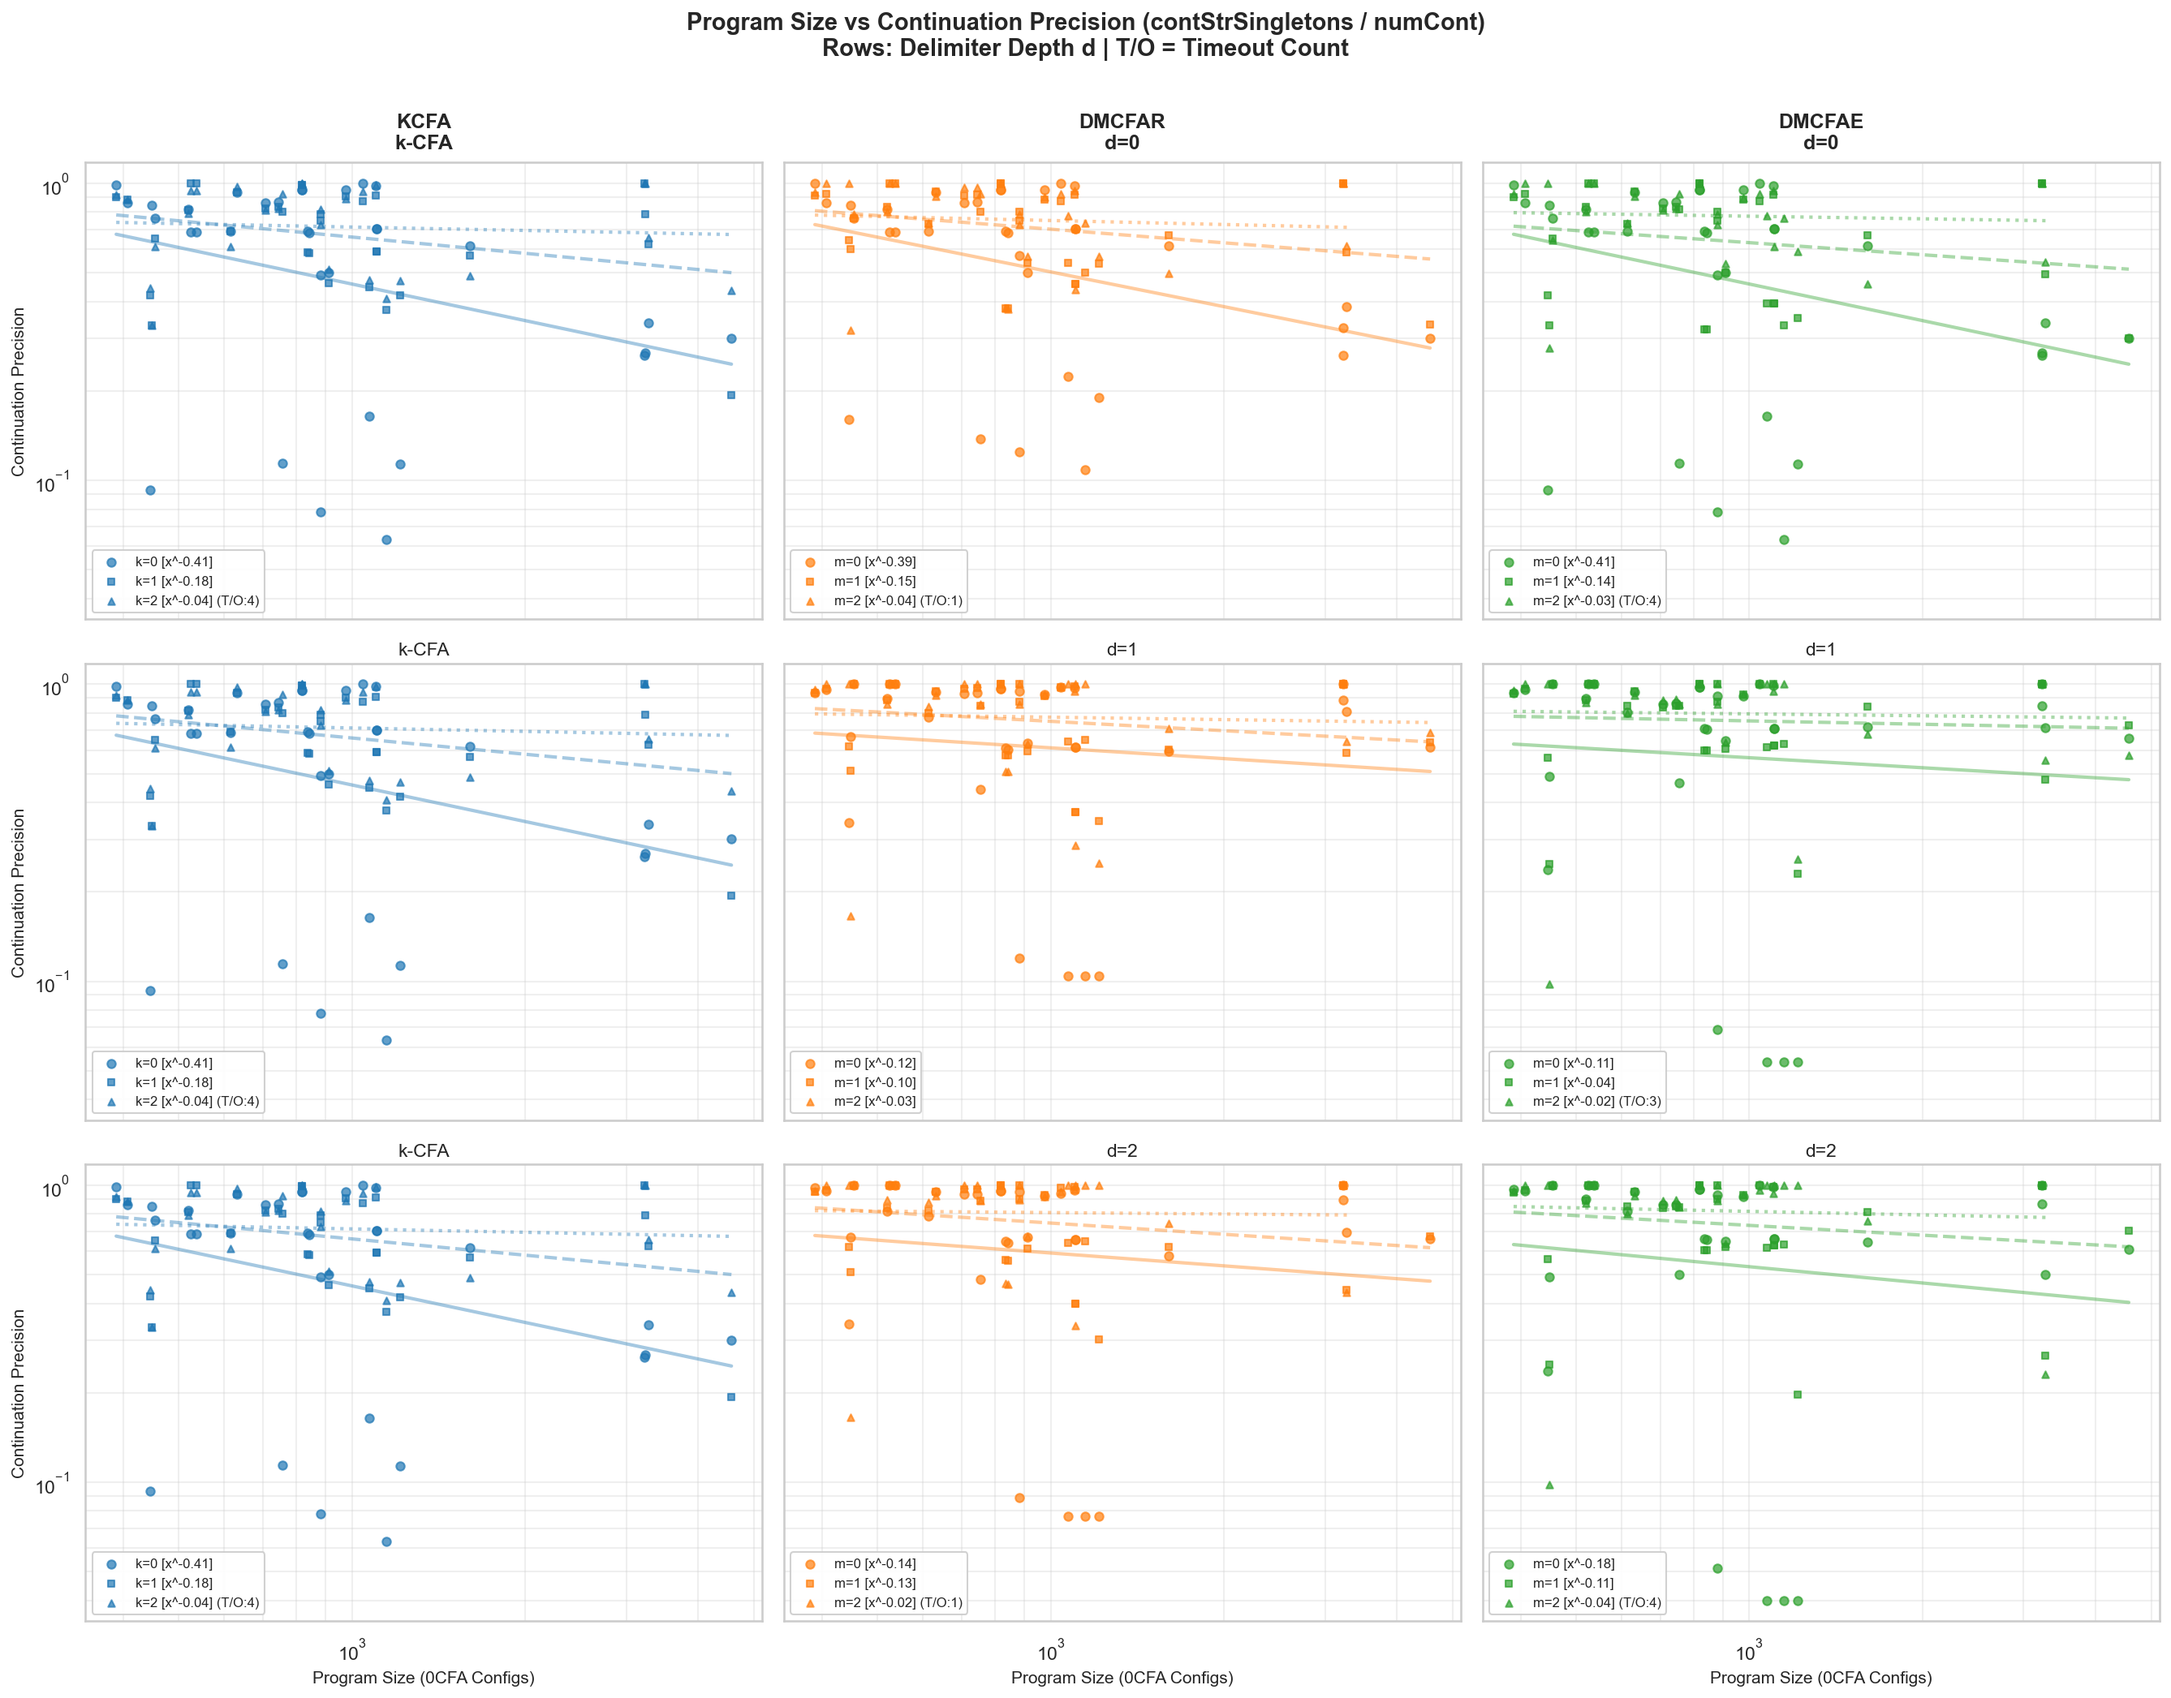
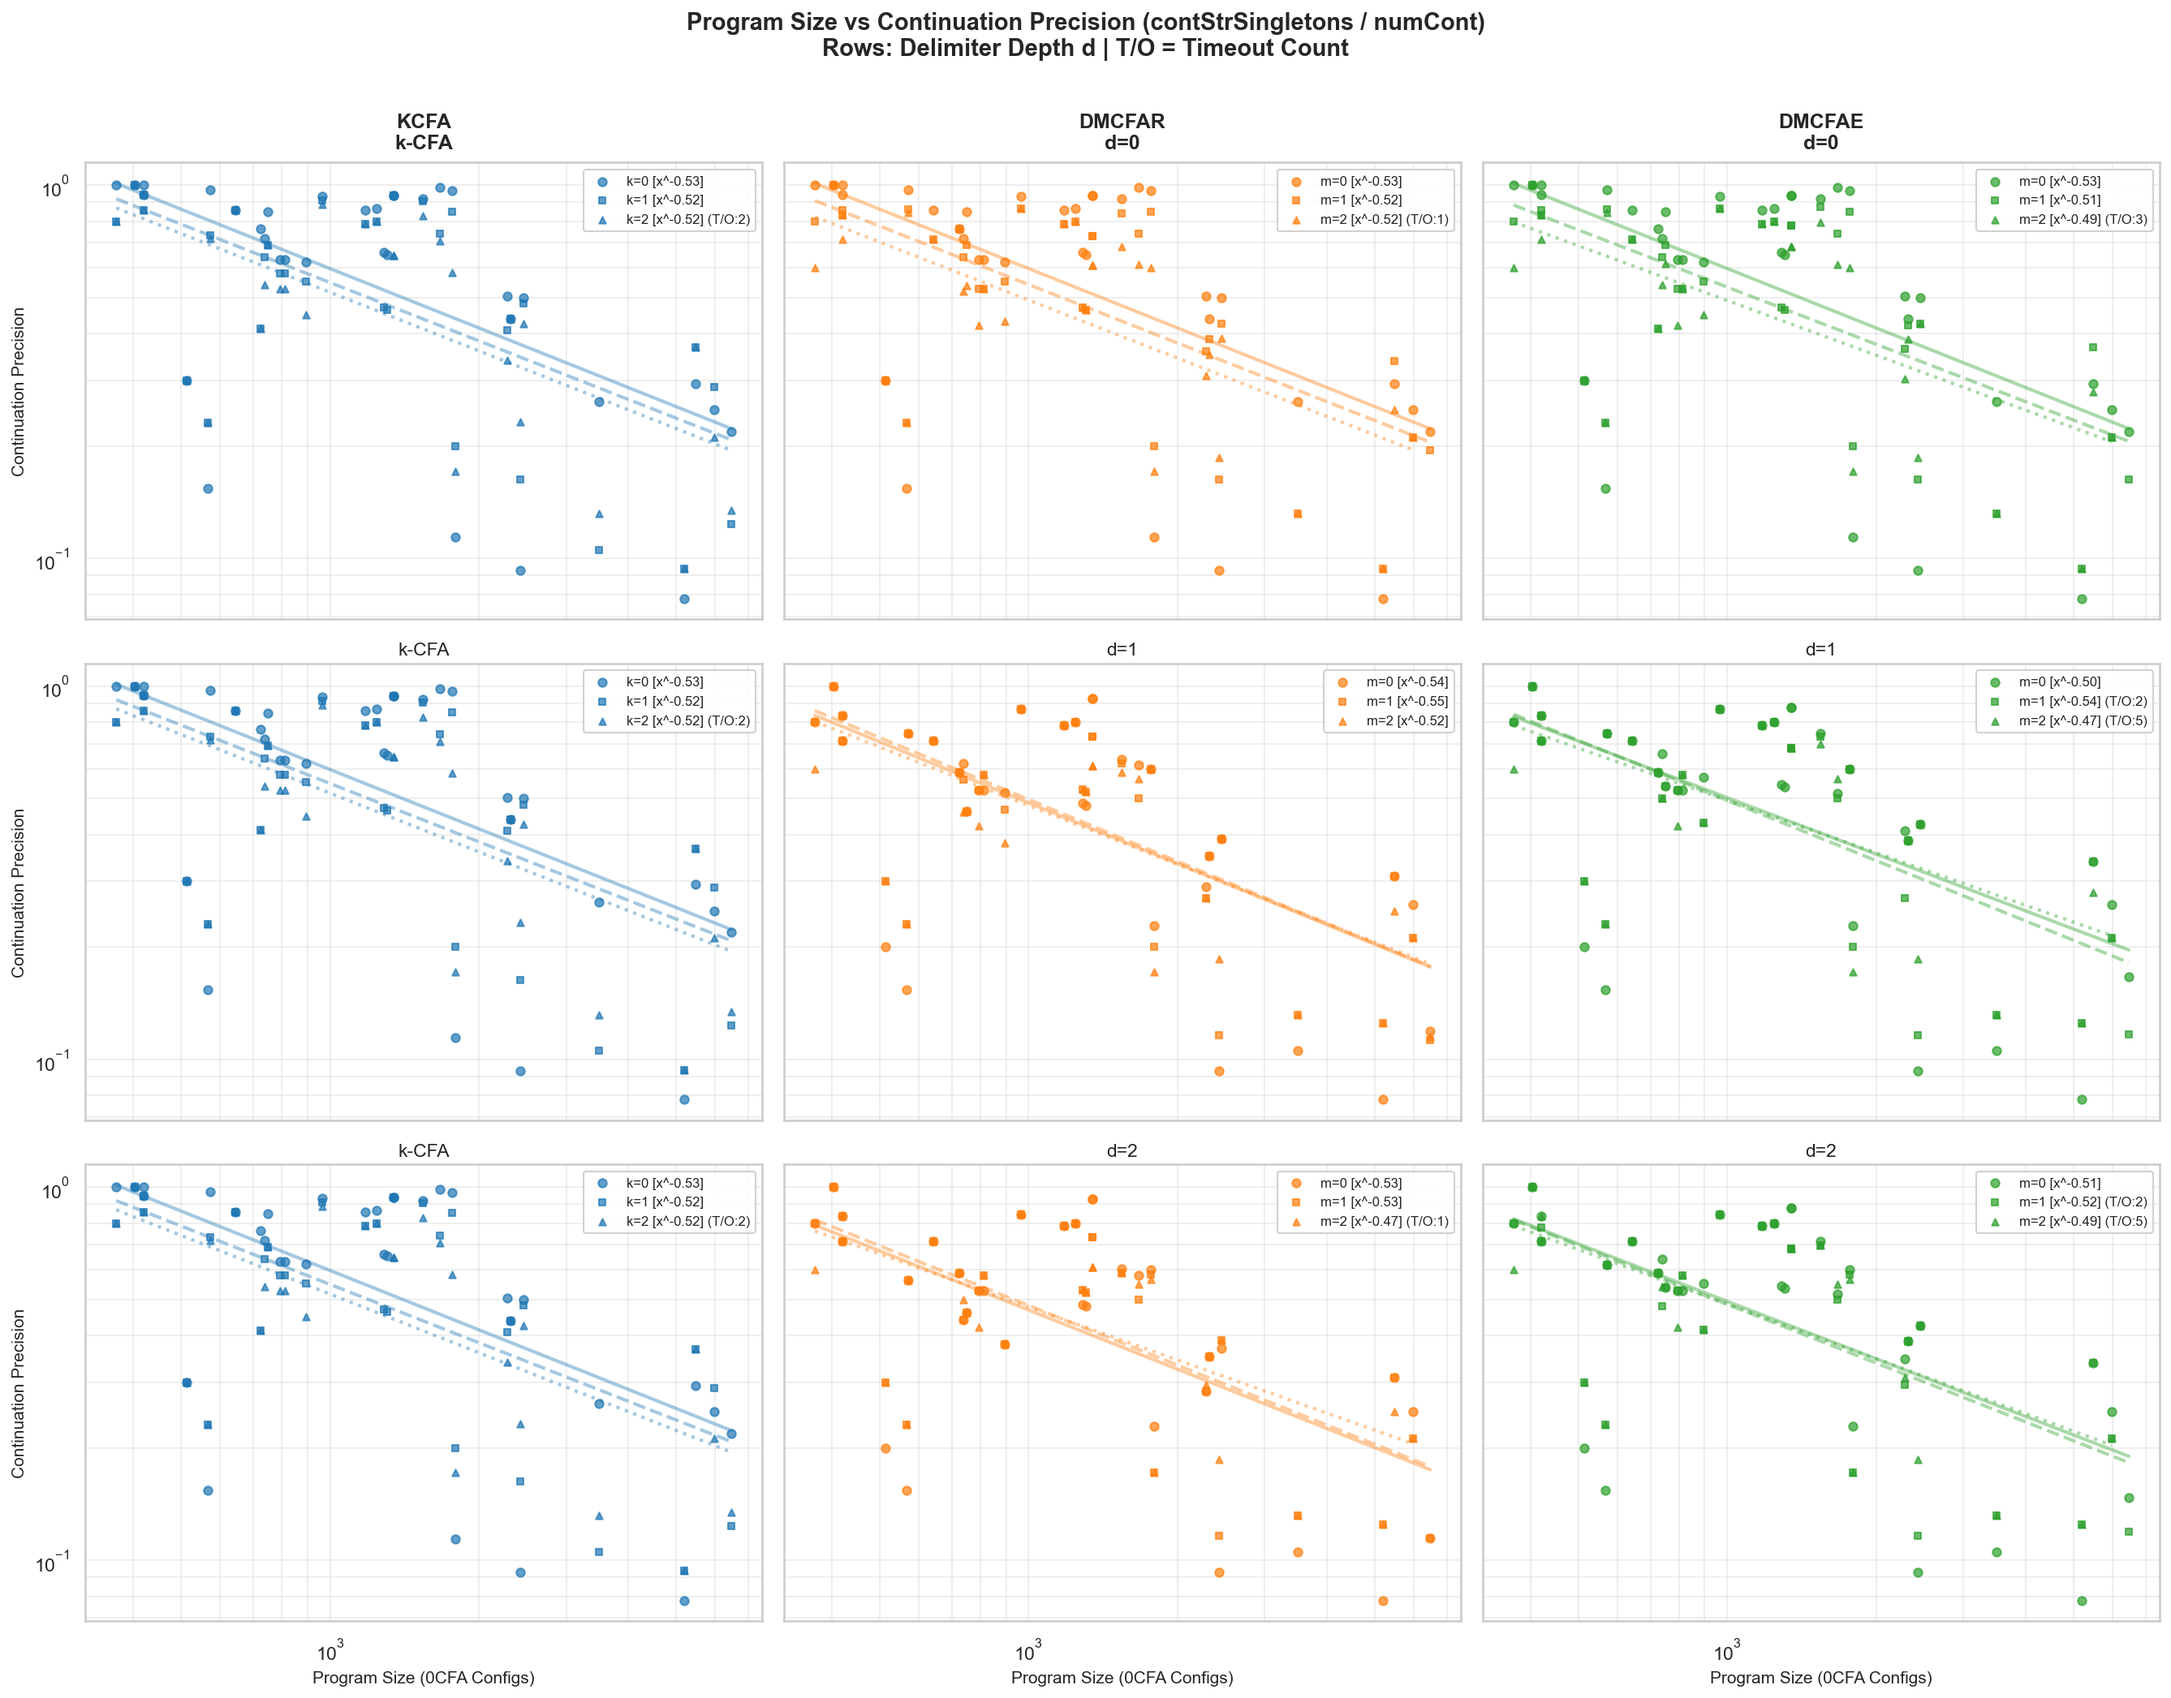
new info

diff --git a/benchmarks/analyze.py b/benchmarks/analyze.py
@@ -94,8 +94,8 @@ def compute_metrics(run, baseline_run):
     # Measures how many singletons were found relative to the original program's baseline size
     # This prevents the 'expansion' from diluting the precision score.
     base_total = baseline['numStructAddresses']
-    base_prec_struct = baseline['valStrSingletons'] / base_total if base_total > 0 else 1.0
-    poly_prec_struct = m['valStrSingletons'] / base_total if base_total > 0 else 1.0
+    base_prec_struct = baseline['val0CFAStrSingletons'] / base_total if base_total > 0 else 1.0
+    poly_prec_struct = m['val0CFAStrSingletons'] / base_total if base_total > 0 else 1.0
     prec_struct = poly_prec_struct / base_prec_struct if base_prec_struct > 0 else 1.0
     
     # Relative Semantic Precision (Data-Flow Improvement)
@@ -175,7 +175,7 @@ def generate_icfp_tables(results, baselines, variant_name):
         'time': 'mean',
         'rel_time': safe_gmean,
         'expansion': safe_gmean,
-        'prec_struct': 'mean',
+        'prec_struct': safe_gmean,
         'prec_sem': 'mean',
         'prec_lit': 'mean',
         'prod_v_str': 'mean',
@@ -194,7 +194,7 @@ def generate_icfp_tables(results, baselines, variant_name):
     })
     
     # Marginal Utility Tables (Kastrinis & Smaragdakis, 2013)
-    struct_mu = df[df['status'] == 'OK'].pivot_table(index='d', columns='m', values='prec_struct', aggfunc='mean')
+    struct_mu = df[df['status'] == 'OK'].pivot_table(index='d', columns='m', values='prec_struct', aggfunc=safe_gmean)
     sem_mu = df[df['status'] == 'OK'].pivot_table(index='d', columns='m', values='prec_sem', aggfunc='mean')
     time_mu = df[df['status'] == 'OK'].pivot_table(index='d', columns='m', values='rel_time', aggfunc=safe_gmean)
 
@@ -226,7 +226,7 @@ def plot_visualizations(df, struct_mu, sem_mu, time_mu, variant_name):
     plot_df = df[df['status'] == 'OK'].groupby(['runID', 'd', 'm']).agg({
         'expansion': safe_gmean,
         'rel_time': safe_gmean,
-        'prec_struct': 'mean',
+        'prec_struct': safe_gmean,
         'prec_sem': 'mean'
     }).reset_index()
     
@@ -389,7 +389,7 @@ def plot_size_vs_time_comparison(all_results, min_size=100):
     """
     Plots program size (configurations visited from 0CFA) vs analysis time for different analyses and sensitivities.
     Shows d=0,1,2 in rows with KCFA baseline on left, includes timeout counts.
-    Program size = numTotalFixInputStates - numStoreAddresses (number of configurations/Step states visited)
+    Program size = numTotalFixpointStates (number of configurations/Step states visited)
     
     Args:
         all_results: List of all benchmark results
@@ -408,9 +408,8 @@ def plot_size_vs_time_comparison(all_results, min_size=100):
                     continue
                 m = r['storeMetrics']
                 # Use configurations visited as program size proxy
-                total_states = m.get('numTotalFixInputStates', 0)
-                store_addrs = m.get('numStoreAddresses', 0)
-                configs_visited = total_states - store_addrs
+                total_states = m.get('numTotalFixpointStates', 0)
+                configs_visited = total_states
                 if configs_visited > 0 and configs_visited >= min_size:
                     program_sizes[bench] = configs_visited
     
@@ -681,6 +680,7 @@ def plot_size_vs_cont_precision(all_results, min_size=100):
     
     # Get program sizes from KCFA 0-0 baseline
     program_sizes = {}
+    program_conts = {}
     for r in all_results:
         if r['variant'] == 'kcfa' and str(r['d']) == '0' and str(r['m']) == '0':
             bench = r['benchmarkName']
@@ -689,11 +689,12 @@ def plot_size_vs_cont_precision(all_results, min_size=100):
                 continue
             if r.get('storeMetrics'):
                 m = r['storeMetrics']
-                total_states = m.get('numTotalFixInputStates', 0)
-                store_addrs = m.get('numStoreAddresses', 0)
-                configs_visited = total_states - store_addrs
+                total_states = m.get('numTotalFixpointStates', 0)
+                configs_visited = total_states
+                program_conts[bench] = m.get('numContAddresses', 0)
                 if configs_visited > 0 and configs_visited >= min_size:
                     program_sizes[bench] = configs_visited
+                
     
     if not program_sizes:
         print("Warning: No KCFA 0-0 results found to determine program sizes.")
@@ -732,15 +733,13 @@ def plot_size_vs_cont_precision(all_results, min_size=100):
             continue
             
         metrics = r['storeMetrics']
-        num_cont = metrics.get('numContAddresses', 0)
-        cont_str_singletons = metrics.get('contStrSingletons', 0)
-        
+        num_cont = program_conts.get(bench)
+        cont_str_singletons = metrics.get('cont0CFAStrSingletons', 0)
         # Calculate continuation precision (avoid division by zero)
         if num_cont > 0:
             cont_precision = cont_str_singletons / num_cont
         else:
-            continue  # Skip if no continuations
-        
+            continue  # Skip if no continuations    
         # KCFA: d is always 0, m is the k parameter
         if variant == 'kcfa' and d == '0' and m in m_values:
             plot_data.append({
@@ -895,9 +894,8 @@ def print_top_programs_by_size(all_results, top_n=10):
                 continue
             if r.get('storeMetrics'):
                 m = r['storeMetrics']
-                total_states = m.get('numTotalFixInputStates', 0)
-                store_addrs = m.get('numStoreAddresses', 0)
-                configs_visited = total_states - store_addrs
+                total_states = m.get('numTotalFixpointStates', 0)
+                configs_visited = total_states
                 if configs_visited > 0:
                     program_sizes[bench] = configs_visited
     

diff --git a/benchmarks/find-timeouts.py b/benchmarks/find-timeouts.py
@@ -6,6 +6,7 @@ Helps identify which benchmarks and configurations are timing out.
 
 import json
 import os
+from numpy import mean
 import pandas as pd
 from collections import defaultdict
 
@@ -60,6 +61,11 @@ def analyze_timeouts(results):
     print(f"Timeouts: {len(timeouts)} ({100*len(timeouts)/len(results):.1f}%)")
     print(f"Successful: {len(non_timeouts)} ({100*len(non_timeouts)/len(results):.1f}%)")
     
+    for r in non_timeouts:
+        n = mean(r.get('analysisTimes', []))
+        if n > 1:
+            print(f"  • {r.get('benchmarkName', 'unknown')} ({r.get('variant', 'unknown')}, d={r.get('d', '?')}, m={r.get('m', '?')}) - avg time: {n:.2f}s")
+
     if not timeouts:
         print("\n✓ No timeouts found!")
         return
@@ -85,6 +91,7 @@ def analyze_timeouts(results):
     for t in timeouts:
         variant = t.get('variant', 'unknown')
         by_variant[variant].append(t)
+        
     
     print(f"\n{'='*80}")
     print(f"TIMEOUTS BY VARIANT")
